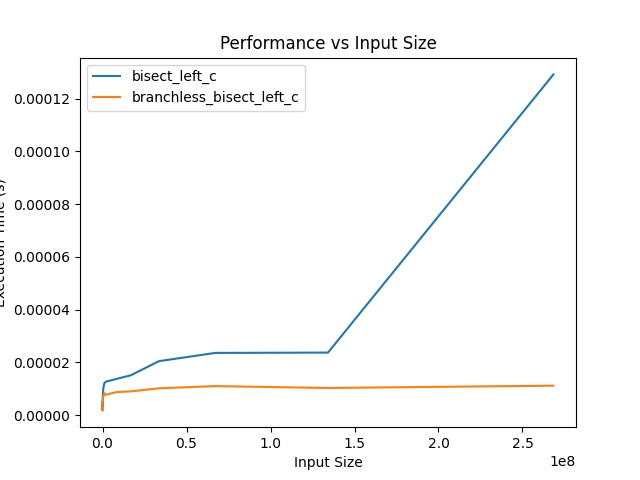
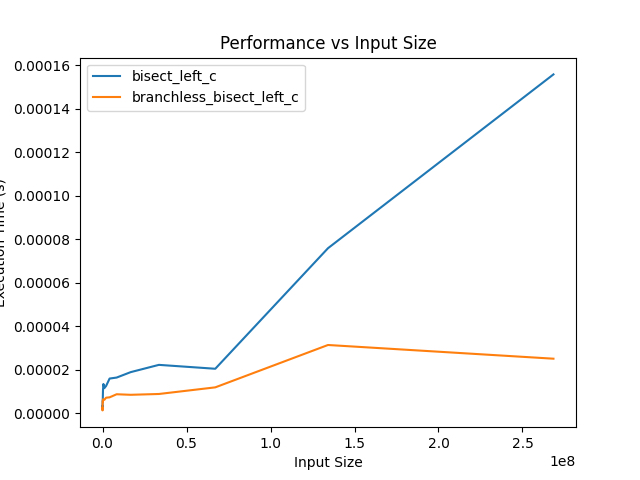
update images and stuff after PR

diff --git a/benchmark.py b/benchmark.py
@@ -5,8 +5,9 @@ bisect_left = lambda arr, value: arr.bisect_left(value)
 from main import branchless_bisect_left
 from timeit import timeit
 import matplotlib.pyplot as plt
-sizes = [2**i for i in range(0, 25)]
+from random import randint
 times = []
+sizes = [i for i in range(2**20, 2**20+1000)]
 times_me = []
 times_c = []
 times_bl_c = []
@@ -14,14 +15,14 @@ times_bl_c = []
 num_trials = 20
 for size in sizes:
     test_arr = list(range(size))
-    value=size//30
+    value=randint(1, size-1)
     times_me.append(timeit(lambda:branchless_bisect_left(test_arr, value), number=num_trials))
     test_arr2 = SortedList(test_arr)
     times.append(timeit(lambda:bisect_left(test_arr2, value), number=num_trials))
     times_c.append(timeit(lambda:bisect_left_c(test_arr, value), number=num_trials))
     times_bl_c.append(timeit(lambda:bl_bisect_left(test_arr, value), number=num_trials))
-    assert len(set([i(test_arr2 if i==bisect_left else test_arr, value) for i in [bisect_left, branchless_bisect_left, bisect_left_c, bl_bisect_left]])) ==1
-
+    assert len(set([i(test_arr2 if i==bisect_left else test_arr, value) for i in [bisect_left, branchless_bisect_left, bisect_left_c,
+                                                                              bl_bisect_left]])) ==1
 plt.plot(sizes, times, label="bisect_left")
 plt.plot(sizes, times_c, label="bisect_left_c")
 plt.plot(sizes, times_me, label="branchless_bisect_left")
@@ -46,7 +47,7 @@ times_bl_c = []
 num_trials = 20
 for size in sizes:
     test_arr = list(range(size))
-    value=size//30
+    value=randint(1, size-1)
     times_me.append(timeit(lambda:branchless_bisect_right(test_arr, value), number=num_trials))
     test_arr2 = SortedList(test_arr)
     times.append(timeit(lambda:bisect_right(test_arr2, value), number=num_trials))

diff --git a/submodule/main.c b/submodule/main.c
@@ -2,7 +2,6 @@
 #include "Python.h"
 #include <stdio.h>
 #include <stdlib.h>
-#include <immintrin.h>
 
 #if defined(__OPTIMIZE__)
 
